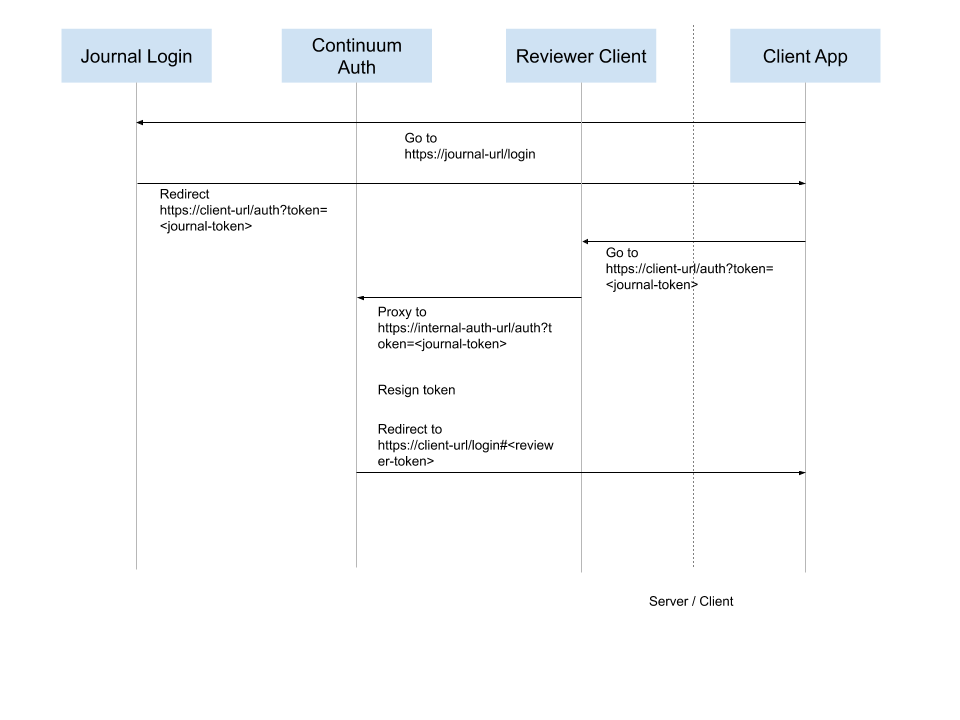
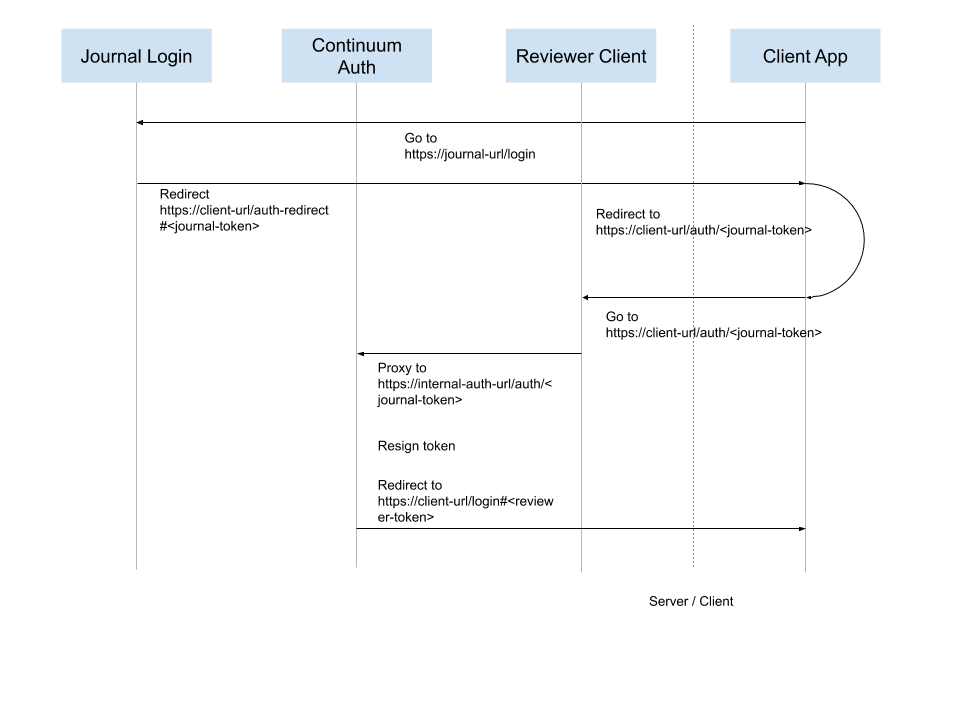
Updated authentication flow, fixed journal token and auth proxy url

diff --git a/docs/authentication.md b/docs/authentication.md
@@ -10,9 +10,11 @@ The `continuum-auth` service provides authentication functionality for libero re
 ![](authentication-flow.png)
 
 1. The user is directed first to the continuum journal login (this is definined in configuration)[https://github.com/libero/reviewer-client/blob/069d47299cbef16edbefc435ba7a42441f0bc8fd/config.ts#L8]. The journal login mechanism is hidden - but this redirects the user to ORCID for authentication.
-2. After authentication the user is then redirected to an authentication url which contains the parameter (`journal-token`). This request is then proxied to the `continuum-auth` service (as its not accessible publicly).
-3. The token is re-signed using a different secret (`reviewer-secret`). See the [auth-token package](https://github.com/libero/auth-token) for more information.
-4. The user is then redirected to the client app where the token is stored in the browser's local storage.
+1. After authentication, the user is redirected with the token the hash of a url (`/auth-redirect#<token>`). This redirects
+to the authentication url with the token as part of the url so that it can get sent to the server (`/auth/<token>`).
+1. This request is then proxied to the `continuum-auth` service (as its not accessible publicly).
+1. The token is re-signed using a different secret (`reviewer-secret`). See the [auth-token package](https://github.com/libero/auth-token) for more information.
+1. The user is then redirected to the client app where the token is stored in the browser's local storage.
 
 
 ### Authenticating requests
@@ -21,5 +23,5 @@ Subsequent API requests are then made by the Client App along with the token. Se
 ![](authenticated-api-flow.png)
 
 1. Client App makes an API request. Stored token is sent in the `Authorization` header
-2. Request is proxied to submission service which verifies the token using the reviewer secret value.
-3. Response is proxied back to the Client App
+1. Request is proxied to submission service which verifies the token using the reviewer secret value.
+1. Response is proxied back to the Client App
